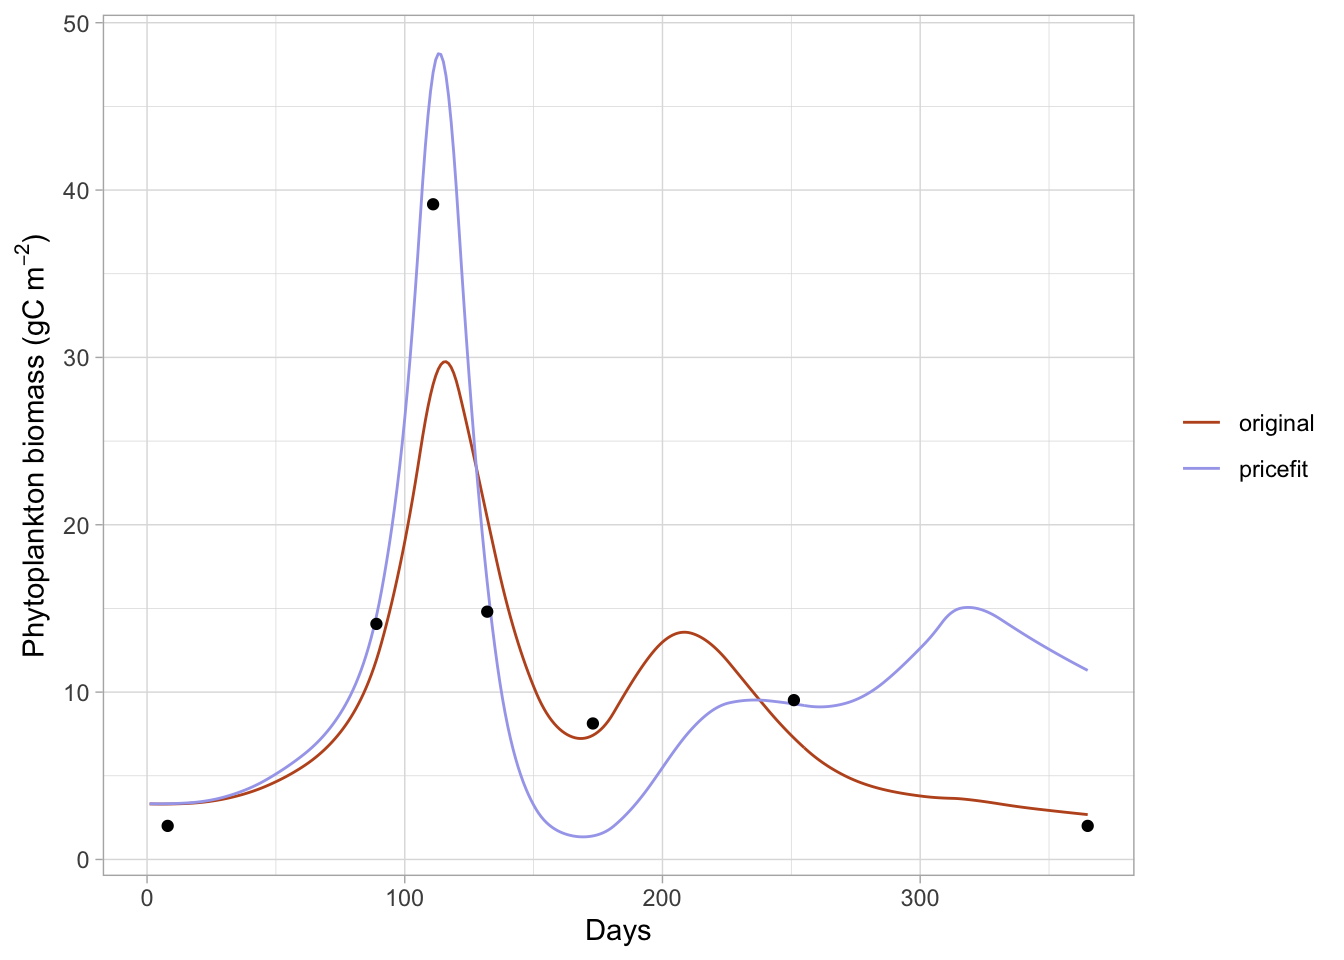
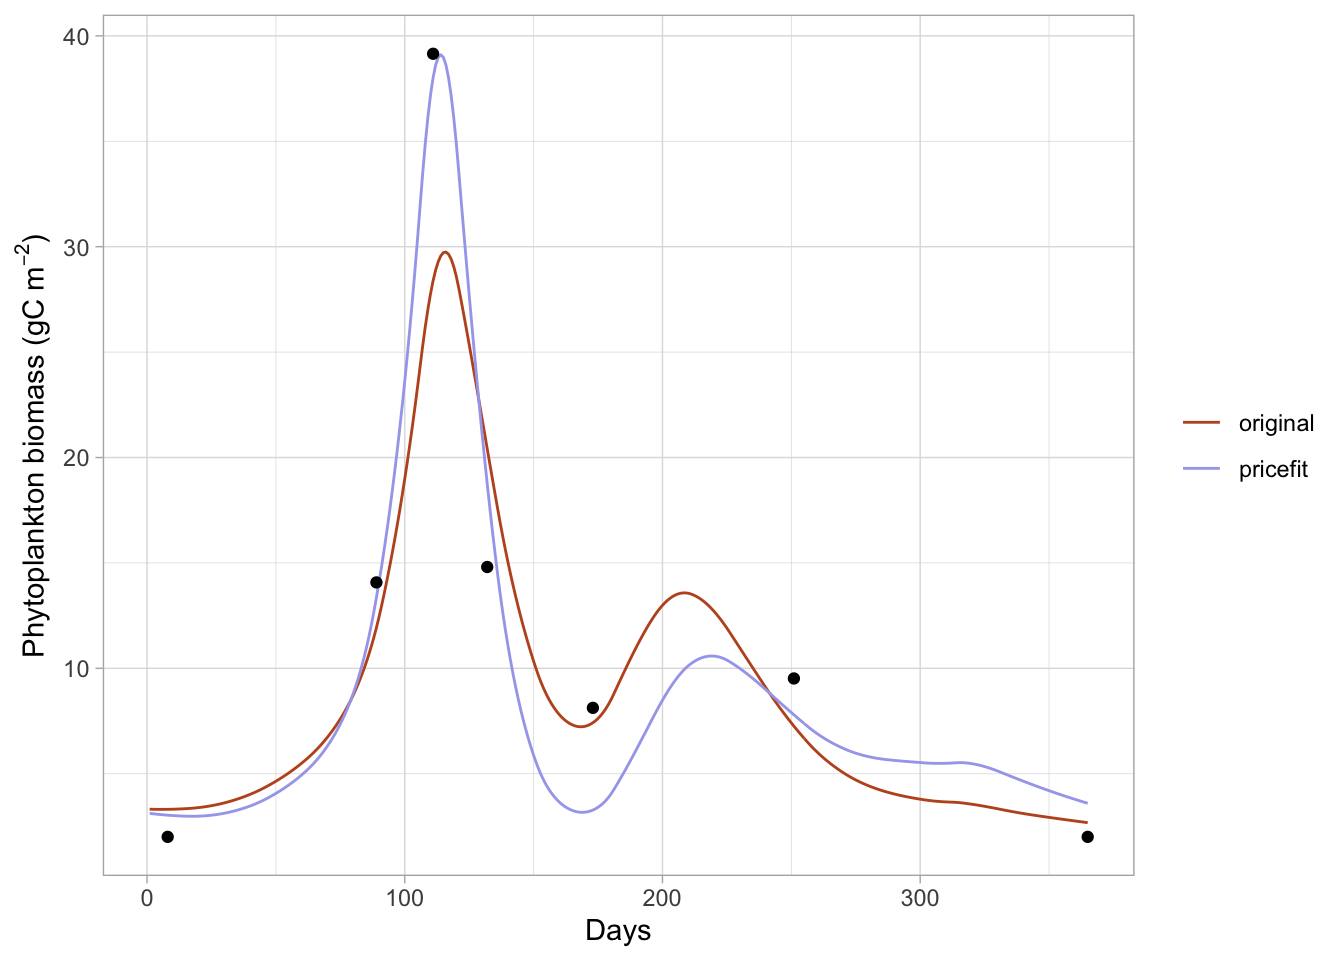
render before transforming to persentation

diff --git a/scripts/riley_presentation.html b/scripts/riley_presentation.html
@@ -264,7 +264,7 @@ G = \textcolor{#B3541E}{g}~\textcolor{#2B5F9E}{zoo_{\text{bm}}}
 <div class="sourceCode cell-code" id="cb3"><pre class="sourceCode r code-with-copy"><code class="sourceCode r"><span id="cb3-1"><a href="#cb3-1" aria-hidden="true" tabindex="-1"></a>parameters <span class="ot">&lt;-</span> <span class="fu">c</span>(</span>
 <span id="cb3-2"><a href="#cb3-2" aria-hidden="true" tabindex="-1"></a>  <span class="at">p =</span> <span class="fl">2.5</span>,</span>
 <span id="cb3-3"><a href="#cb3-3" aria-hidden="true" tabindex="-1"></a>  <span class="at">I_min =</span> <span class="fl">0.0015</span>,</span>
-<span id="cb3-4"><a href="#cb3-4" aria-hidden="true" tabindex="-1"></a>  <span class="at">r =</span> <span class="fl">0.069</span>, <span class="co"># Q10=2</span></span>
+<span id="cb3-4"><a href="#cb3-4" aria-hidden="true" tabindex="-1"></a>  <span class="at">r =</span> <span class="fl">0.069</span>,</span>
 <span id="cb3-5"><a href="#cb3-5" aria-hidden="true" tabindex="-1"></a>  <span class="at">R_0 =</span> <span class="fl">0.0175</span>,</span>
 <span id="cb3-6"><a href="#cb3-6" aria-hidden="true" tabindex="-1"></a>  <span class="at">g =</span> <span class="fl">0.0075</span></span>
 <span id="cb3-7"><a href="#cb3-7" aria-hidden="true" tabindex="-1"></a>)</span></code><button title="Copy to Clipboard" class="code-copy-button"><i class="bi"></i></button></pre></div>
@@ -722,9 +722,10 @@ Figure&nbsp;5: Compare interpolation of forcing data
 <span id="cb17-2"><a href="#cb17-2" aria-hidden="true" tabindex="-1"></a>  <span class="fu">add_row</span>(<span class="at">time =</span> <span class="dv">365</span>, <span class="at">Phyto_bm =</span> dat_obs<span class="sc">$</span>Phyto_bm[<span class="dv">1</span>])</span></code><button title="Copy to Clipboard" class="code-copy-button"><i class="bi"></i></button></pre></div>
 </details>
 </div>
-<p>This step takes some time, use the faster model with <code>approx()</code> for forcing data interpolation and 15 days interval instead of 1 day. It still takes a long time to fit, so save output after first run. Lower value explored is 0.5 * baseline parameter value and upper value 2 * baseline value.</p>
+<p>This step takes some time, use the faster model with <code>approx()</code>. Only integrate at -15 days (initial conditions) and the timpoints in observed data. It still takes a long time to fit, so save output after first run.</p>
+<p>Lower value explored is 0.5 * baseline parameter value and upper value 2 * baseline value.</p>
 <div class="cell">
-<div class="sourceCode cell-code" id="cb18"><pre class="sourceCode r code-with-copy"><code class="sourceCode r"><span id="cb18-1"><a href="#cb18-1" aria-hidden="true" tabindex="-1"></a>times_calib <span class="ot">&lt;-</span> <span class="fu">seq</span>(<span class="sc">-</span><span class="dv">15</span>, <span class="dv">365</span>, <span class="dv">15</span>)</span>
+<div class="sourceCode cell-code" id="cb18"><pre class="sourceCode r code-with-copy"><code class="sourceCode r"><span id="cb18-1"><a href="#cb18-1" aria-hidden="true" tabindex="-1"></a>times_calib <span class="ot">&lt;-</span> <span class="fu">c</span>(<span class="sc">-</span><span class="dv">15</span>, dat_obs<span class="sc">$</span>time)</span>
 <span id="cb18-2"><a href="#cb18-2" aria-hidden="true" tabindex="-1"></a></span>
 <span id="cb18-3"><a href="#cb18-3" aria-hidden="true" tabindex="-1"></a><span class="co"># lower parameters</span></span>
 <span id="cb18-4"><a href="#cb18-4" aria-hidden="true" tabindex="-1"></a>par_lower <span class="ot">&lt;-</span> parameters <span class="sc">*</span> <span class="fl">0.5</span></span>
@@ -734,49 +735,53 @@ Figure&nbsp;5: Compare interpolation of forcing data
 <span id="cb18-8"><a href="#cb18-8" aria-hidden="true" tabindex="-1"></a></span>
 <span id="cb18-9"><a href="#cb18-9" aria-hidden="true" tabindex="-1"></a><span class="co"># cost function returns sums of squared</span></span>
 <span id="cb18-10"><a href="#cb18-10" aria-hidden="true" tabindex="-1"></a>cost_price <span class="ot">&lt;-</span> <span class="cf">function</span>(par_vec, <span class="at">obs =</span> dat_obs) {</span>
-<span id="cb18-11"><a href="#cb18-11" aria-hidden="true" tabindex="-1"></a>  <span class="co"># integrate as before, using par_vec as parameter input</span></span>
-<span id="cb18-12"><a href="#cb18-12" aria-hidden="true" tabindex="-1"></a>  sim <span class="ot">&lt;-</span> <span class="fu">tryCatch</span>(</span>
-<span id="cb18-13"><a href="#cb18-13" aria-hidden="true" tabindex="-1"></a>    <span class="fu">ode</span>(</span>
-<span id="cb18-14"><a href="#cb18-14" aria-hidden="true" tabindex="-1"></a>      <span class="at">y =</span> state,</span>
-<span id="cb18-15"><a href="#cb18-15" aria-hidden="true" tabindex="-1"></a>      <span class="at">times =</span> times_calib,</span>
-<span id="cb18-16"><a href="#cb18-16" aria-hidden="true" tabindex="-1"></a>      <span class="at">func =</span> m_riley,</span>
-<span id="cb18-17"><a href="#cb18-17" aria-hidden="true" tabindex="-1"></a>      <span class="at">parms =</span> <span class="fu">as.list</span>(par_vec),</span>
-<span id="cb18-18"><a href="#cb18-18" aria-hidden="true" tabindex="-1"></a>      <span class="at">forcing_tbl =</span> dat_forc</span>
-<span id="cb18-19"><a href="#cb18-19" aria-hidden="true" tabindex="-1"></a>    ),</span>
-<span id="cb18-20"><a href="#cb18-20" aria-hidden="true" tabindex="-1"></a>    <span class="at">error =</span> <span class="cf">function</span>(e) <span class="fu">return</span>(<span class="cn">NULL</span>)</span>
-<span id="cb18-21"><a href="#cb18-21" aria-hidden="true" tabindex="-1"></a>  )</span>
-<span id="cb18-22"><a href="#cb18-22" aria-hidden="true" tabindex="-1"></a></span>
-<span id="cb18-23"><a href="#cb18-23" aria-hidden="true" tabindex="-1"></a>  <span class="co"># if ode() fails, return huge penalty value</span></span>
-<span id="cb18-24"><a href="#cb18-24" aria-hidden="true" tabindex="-1"></a>  <span class="cf">if</span> (<span class="fu">is.null</span>(sim) <span class="sc">||</span> <span class="fu">any</span>(<span class="sc">!</span><span class="fu">is.finite</span>(<span class="fu">as.data.frame</span>(sim)<span class="sc">$</span>Phyto_bm))) {</span>
-<span id="cb18-25"><a href="#cb18-25" aria-hidden="true" tabindex="-1"></a>    <span class="fu">return</span>(<span class="fl">1e40</span>)</span>
-<span id="cb18-26"><a href="#cb18-26" aria-hidden="true" tabindex="-1"></a>  }</span>
-<span id="cb18-27"><a href="#cb18-27" aria-hidden="true" tabindex="-1"></a></span>
-<span id="cb18-28"><a href="#cb18-28" aria-hidden="true" tabindex="-1"></a>  <span class="co"># has to be df and not deSolve object</span></span>
-<span id="cb18-29"><a href="#cb18-29" aria-hidden="true" tabindex="-1"></a>  sim_tbl <span class="ot">&lt;-</span> <span class="fu">as.data.frame</span>(sim)</span>
-<span id="cb18-30"><a href="#cb18-30" aria-hidden="true" tabindex="-1"></a></span>
-<span id="cb18-31"><a href="#cb18-31" aria-hidden="true" tabindex="-1"></a>  <span class="co"># to get predicted values for each observed data point, use approx()</span></span>
-<span id="cb18-32"><a href="#cb18-32" aria-hidden="true" tabindex="-1"></a>  sim_at_obs <span class="ot">&lt;-</span> <span class="fu">approx</span>(</span>
-<span id="cb18-33"><a href="#cb18-33" aria-hidden="true" tabindex="-1"></a>    <span class="at">x =</span> sim_tbl<span class="sc">$</span>time,</span>
-<span id="cb18-34"><a href="#cb18-34" aria-hidden="true" tabindex="-1"></a>    <span class="at">y =</span> sim_tbl<span class="sc">$</span>Phyto_bm,</span>
-<span id="cb18-35"><a href="#cb18-35" aria-hidden="true" tabindex="-1"></a>    <span class="at">xout =</span> obs<span class="sc">$</span>time,</span>
-<span id="cb18-36"><a href="#cb18-36" aria-hidden="true" tabindex="-1"></a>    <span class="at">rule =</span> <span class="dv">2</span></span>
-<span id="cb18-37"><a href="#cb18-37" aria-hidden="true" tabindex="-1"></a>  )<span class="sc">$</span>y</span>
-<span id="cb18-38"><a href="#cb18-38" aria-hidden="true" tabindex="-1"></a></span>
-<span id="cb18-39"><a href="#cb18-39" aria-hidden="true" tabindex="-1"></a>  <span class="fu">sum</span>((sim_at_obs <span class="sc">-</span> obs<span class="sc">$</span>Phyto_bm)<span class="sc">^</span><span class="dv">2</span>)</span>
-<span id="cb18-40"><a href="#cb18-40" aria-hidden="true" tabindex="-1"></a>}</span>
-<span id="cb18-41"><a href="#cb18-41" aria-hidden="true" tabindex="-1"></a></span>
-<span id="cb18-42"><a href="#cb18-42" aria-hidden="true" tabindex="-1"></a>fit_price <span class="ot">&lt;-</span> <span class="fu">pricefit</span>(</span>
-<span id="cb18-43"><a href="#cb18-43" aria-hidden="true" tabindex="-1"></a>  <span class="at">par =</span> parameters,</span>
-<span id="cb18-44"><a href="#cb18-44" aria-hidden="true" tabindex="-1"></a>  <span class="at">minpar =</span> par_lower,</span>
-<span id="cb18-45"><a href="#cb18-45" aria-hidden="true" tabindex="-1"></a>  <span class="at">maxpar =</span> par_upper,</span>
-<span id="cb18-46"><a href="#cb18-46" aria-hidden="true" tabindex="-1"></a>  <span class="at">func =</span> cost_price,</span>
-<span id="cb18-47"><a href="#cb18-47" aria-hidden="true" tabindex="-1"></a>  <span class="at">npop =</span> <span class="dv">50</span>,</span>
-<span id="cb18-48"><a href="#cb18-48" aria-hidden="true" tabindex="-1"></a>  <span class="at">numiter =</span> <span class="dv">10000</span>,</span>
-<span id="cb18-49"><a href="#cb18-49" aria-hidden="true" tabindex="-1"></a>  <span class="at">varleft =</span> <span class="fl">1e-8</span>,</span>
-<span id="cb18-50"><a href="#cb18-50" aria-hidden="true" tabindex="-1"></a>  <span class="at">centroid =</span> <span class="dv">3</span></span>
-<span id="cb18-51"><a href="#cb18-51" aria-hidden="true" tabindex="-1"></a>)</span>
-<span id="cb18-52"><a href="#cb18-52" aria-hidden="true" tabindex="-1"></a></span>
-<span id="cb18-53"><a href="#cb18-53" aria-hidden="true" tabindex="-1"></a><span class="fu">write_rds</span>(fit_price, <span class="fu">here</span>(<span class="st">"output"</span>, <span class="st">"fit_price.rds"</span>))</span></code><button title="Copy to Clipboard" class="code-copy-button"><i class="bi"></i></button></pre></div>
+<span id="cb18-11"><a href="#cb18-11" aria-hidden="true" tabindex="-1"></a>  progress <span class="ot">&lt;&lt;-</span> <span class="fu">ifelse</span>(<span class="fu">exists</span>(<span class="st">"progress"</span>), progress <span class="sc">+</span> <span class="dv">1</span>, <span class="dv">1</span>)</span>
+<span id="cb18-12"><a href="#cb18-12" aria-hidden="true" tabindex="-1"></a>  <span class="cf">if</span> (progress <span class="sc">%%</span> <span class="dv">100</span> <span class="sc">==</span> <span class="dv">0</span>) {</span>
+<span id="cb18-13"><a href="#cb18-13" aria-hidden="true" tabindex="-1"></a>    <span class="fu">cat</span>(progress, <span class="st">"evaluations</span><span class="sc">\n</span><span class="st">"</span>)</span>
+<span id="cb18-14"><a href="#cb18-14" aria-hidden="true" tabindex="-1"></a>  }</span>
+<span id="cb18-15"><a href="#cb18-15" aria-hidden="true" tabindex="-1"></a>  <span class="co"># integrate as before, using par_vec as parameter input</span></span>
+<span id="cb18-16"><a href="#cb18-16" aria-hidden="true" tabindex="-1"></a>  sim <span class="ot">&lt;-</span> <span class="fu">tryCatch</span>(</span>
+<span id="cb18-17"><a href="#cb18-17" aria-hidden="true" tabindex="-1"></a>    <span class="fu">ode</span>(</span>
+<span id="cb18-18"><a href="#cb18-18" aria-hidden="true" tabindex="-1"></a>      <span class="at">y =</span> state,</span>
+<span id="cb18-19"><a href="#cb18-19" aria-hidden="true" tabindex="-1"></a>      <span class="at">times =</span> times_calib,</span>
+<span id="cb18-20"><a href="#cb18-20" aria-hidden="true" tabindex="-1"></a>      <span class="at">func =</span> m_riley,</span>
+<span id="cb18-21"><a href="#cb18-21" aria-hidden="true" tabindex="-1"></a>      <span class="at">parms =</span> <span class="fu">as.list</span>(par_vec),</span>
+<span id="cb18-22"><a href="#cb18-22" aria-hidden="true" tabindex="-1"></a>      <span class="at">forcing_tbl =</span> dat_forc</span>
+<span id="cb18-23"><a href="#cb18-23" aria-hidden="true" tabindex="-1"></a>    ),</span>
+<span id="cb18-24"><a href="#cb18-24" aria-hidden="true" tabindex="-1"></a>    <span class="at">error =</span> <span class="cf">function</span>(e) <span class="cn">NULL</span></span>
+<span id="cb18-25"><a href="#cb18-25" aria-hidden="true" tabindex="-1"></a>  )</span>
+<span id="cb18-26"><a href="#cb18-26" aria-hidden="true" tabindex="-1"></a></span>
+<span id="cb18-27"><a href="#cb18-27" aria-hidden="true" tabindex="-1"></a>  <span class="co"># if ode() fails, return huge penalty value</span></span>
+<span id="cb18-28"><a href="#cb18-28" aria-hidden="true" tabindex="-1"></a>  <span class="cf">if</span> (<span class="fu">is.null</span>(sim)) {</span>
+<span id="cb18-29"><a href="#cb18-29" aria-hidden="true" tabindex="-1"></a>    <span class="fu">return</span>(<span class="fl">1e8</span>)</span>
+<span id="cb18-30"><a href="#cb18-30" aria-hidden="true" tabindex="-1"></a>  }</span>
+<span id="cb18-31"><a href="#cb18-31" aria-hidden="true" tabindex="-1"></a></span>
+<span id="cb18-32"><a href="#cb18-32" aria-hidden="true" tabindex="-1"></a>  <span class="co"># subset simulations to timpoints in observed data (= remove -15 days)</span></span>
+<span id="cb18-33"><a href="#cb18-33" aria-hidden="true" tabindex="-1"></a>  sim_match <span class="ot">&lt;-</span> sim[sim[, <span class="st">"time"</span>] <span class="sc">%in%</span> obs<span class="sc">$</span>time, <span class="st">"Phyto_bm"</span>]</span>
+<span id="cb18-34"><a href="#cb18-34" aria-hidden="true" tabindex="-1"></a></span>
+<span id="cb18-35"><a href="#cb18-35" aria-hidden="true" tabindex="-1"></a>  <span class="co"># check for non-finite values</span></span>
+<span id="cb18-36"><a href="#cb18-36" aria-hidden="true" tabindex="-1"></a>  <span class="cf">if</span> (<span class="fu">any</span>(<span class="sc">!</span><span class="fu">is.finite</span>(sim_match))) {</span>
+<span id="cb18-37"><a href="#cb18-37" aria-hidden="true" tabindex="-1"></a>    <span class="fu">return</span>(<span class="fl">1e8</span>)</span>
+<span id="cb18-38"><a href="#cb18-38" aria-hidden="true" tabindex="-1"></a>  }</span>
+<span id="cb18-39"><a href="#cb18-39" aria-hidden="true" tabindex="-1"></a></span>
+<span id="cb18-40"><a href="#cb18-40" aria-hidden="true" tabindex="-1"></a>  <span class="co"># sum of squared residuals</span></span>
+<span id="cb18-41"><a href="#cb18-41" aria-hidden="true" tabindex="-1"></a>  <span class="fu">sum</span>((sim_match <span class="sc">-</span> obs<span class="sc">$</span>Phyto_bm)<span class="sc">^</span><span class="dv">2</span>)</span>
+<span id="cb18-42"><a href="#cb18-42" aria-hidden="true" tabindex="-1"></a>}</span>
+<span id="cb18-43"><a href="#cb18-43" aria-hidden="true" tabindex="-1"></a></span>
+<span id="cb18-44"><a href="#cb18-44" aria-hidden="true" tabindex="-1"></a></span>
+<span id="cb18-45"><a href="#cb18-45" aria-hidden="true" tabindex="-1"></a>fit_price <span class="ot">&lt;-</span> <span class="fu">pricefit</span>(</span>
+<span id="cb18-46"><a href="#cb18-46" aria-hidden="true" tabindex="-1"></a>  <span class="at">par =</span> parameters,</span>
+<span id="cb18-47"><a href="#cb18-47" aria-hidden="true" tabindex="-1"></a>  <span class="at">minpar =</span> par_lower,</span>
+<span id="cb18-48"><a href="#cb18-48" aria-hidden="true" tabindex="-1"></a>  <span class="at">maxpar =</span> par_upper,</span>
+<span id="cb18-49"><a href="#cb18-49" aria-hidden="true" tabindex="-1"></a>  <span class="at">func =</span> cost_price,</span>
+<span id="cb18-50"><a href="#cb18-50" aria-hidden="true" tabindex="-1"></a>  <span class="at">npop =</span> <span class="dv">50</span>,</span>
+<span id="cb18-51"><a href="#cb18-51" aria-hidden="true" tabindex="-1"></a>  <span class="at">numiter =</span> <span class="dv">10000</span>,</span>
+<span id="cb18-52"><a href="#cb18-52" aria-hidden="true" tabindex="-1"></a>  <span class="at">varleft =</span> <span class="fl">1e-8</span>,</span>
+<span id="cb18-53"><a href="#cb18-53" aria-hidden="true" tabindex="-1"></a>  <span class="at">centroid =</span> <span class="dv">3</span></span>
+<span id="cb18-54"><a href="#cb18-54" aria-hidden="true" tabindex="-1"></a>)</span>
+<span id="cb18-55"><a href="#cb18-55" aria-hidden="true" tabindex="-1"></a></span>
+<span id="cb18-56"><a href="#cb18-56" aria-hidden="true" tabindex="-1"></a></span>
+<span id="cb18-57"><a href="#cb18-57" aria-hidden="true" tabindex="-1"></a><span class="fu">write_rds</span>(fit_price, <span class="fu">here</span>(<span class="st">"output"</span>, <span class="st">"fit_price.rds"</span>))</span></code><button title="Copy to Clipboard" class="code-copy-button"><i class="bi"></i></button></pre></div>
 </div>
 <p>Read output, use for new integration, and plot</p>
 <div class="cell">
